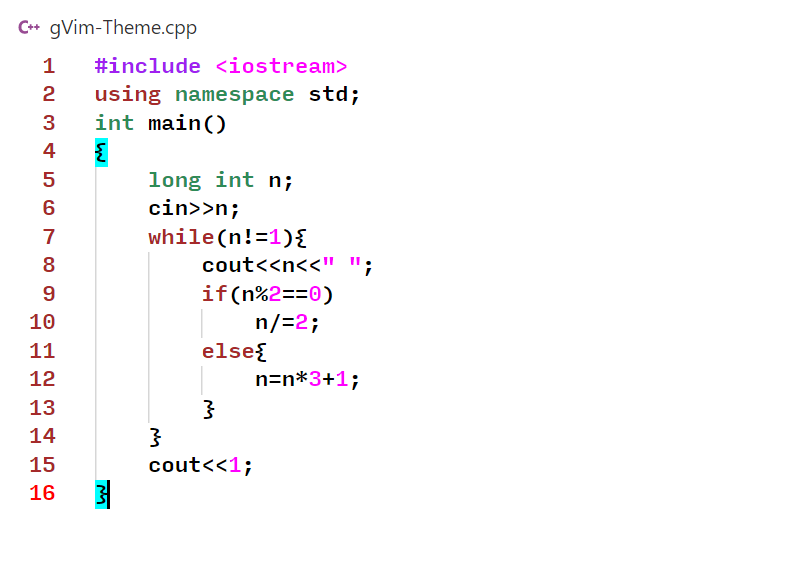
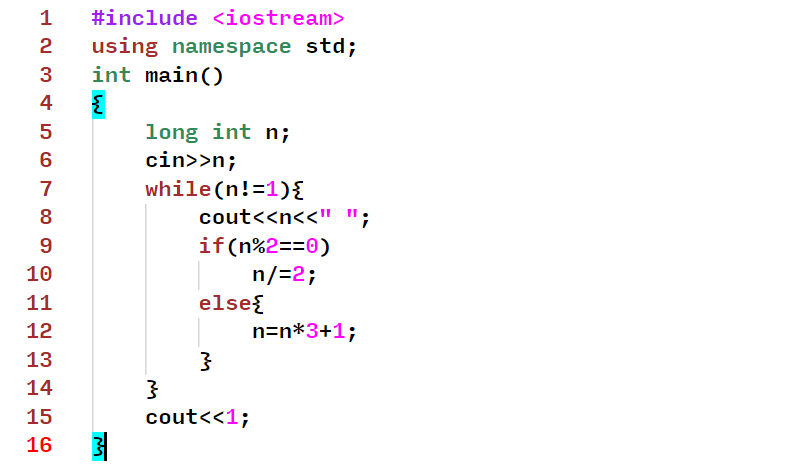
readme

diff --git a/README.md b/README.md
@@ -1,10 +1,17 @@
 # gVim Theme
 Vscode Theme base on gVim ([Vim](https://www.vim.org/download.php)).
 
-![gVim Theme](screenshot/1.png)
-
 ## Installing
 
 Available free in the [Visual Studio Code Market Place](https://marketplace.visualstudio.com/items?itemName=ichsn.gvim-theme)
 
+## Screenshot
+
+![gVim Theme](screenshot/1.png)
+
+### Custom Font
+
+The custom font used in the screenshot is [Input Mono Medium](https://input.djr.com/) Font.
+
+<hr>
 *this theme is under development*
